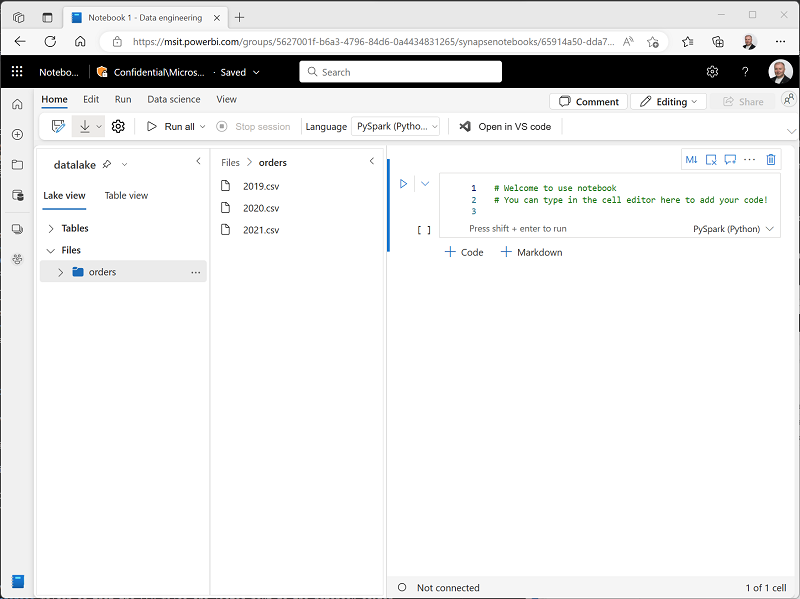
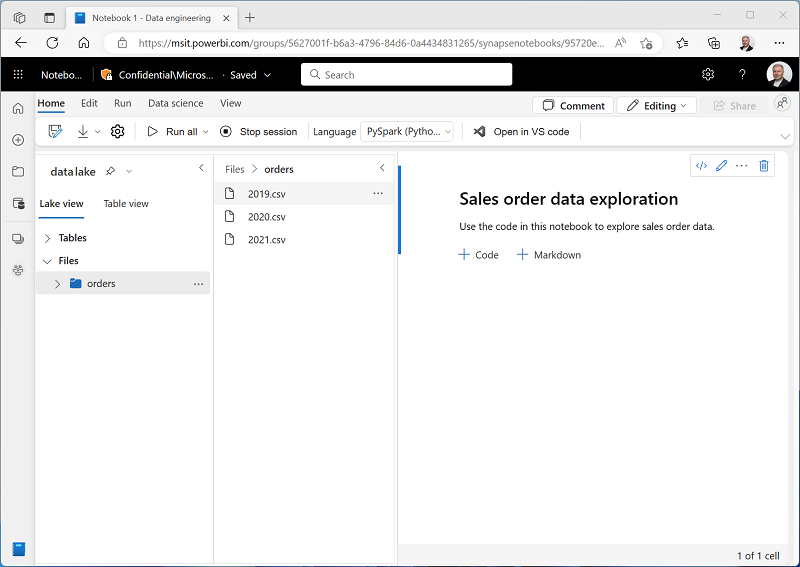
Added delta table

Changed region(s): [[0.0, 0.0, 1.0, 0.5097], [0.0, 0.9594, 1.0, 1.0], [0.3125, 0.4198, 0.3438, 0.4497]]

diff --git a/Instructions/Labs/01-analyze-spark.md b/Instructions/Labs/01-analyze-spark.md
@@ -33,33 +33,49 @@ Now that you have a workspace, it's time to switch to the *Data engineering* exp
 
     ![Screenshot of the experience menu in Power BI.](./Images/data-engineering.png)
 
-2. In the **Data engineering** home page, create a new **Lakehouse** with a name of your choice (for example, *datalake*).
+2. In the **Data engineering** home page, create a new **Lakehouse** with a name of your choice.
 
     After a minute or so, a new lakehouse with no **Tables** or **Files** will be created. You need to ingest some data into the data lakehouse for analysis. There are multiple ways to do this, but in this exercise you'll simply download and extract a folder of text files your local computer and then upload them to your lakehouse.
 
-3. Download and extract the data files for this exercise from [https://github.com/MicrosoftLearning/trident-dev/raw/master/Allfiles/Labs/01/orders.zip](https://github.com/MicrosoftLearning/trident-dev/raw/master/Allfiles/Labs/01/orders.zip).
-
-    > For now, you'll need to sign into GitHub first. When released, the repo will be public!
+3. Download and extract the data files for this exercise from [https://github.com/MicrosoftLearning/dp-data/raw/main/orders.zip](https://github.com/MicrosoftLearning/dp-data/raw/main/orders.zip).
 
 4. After extracting the zipped archive, verify that you have a folder named **orders** that contains CSV files named **2019.csv**, **2020.csv**, and **2021.csv**.
-5. Return to the web browser tab containing your lakehouse, and in the **...** menu for the **Files** collection, select **Upload** and **Upload folder**, and then upload the **orders** folder from your local computer to the lakehouse.
+5. Return to the web browser tab containing your lakehouse, and in the **...** menu for the **Files** node in the **Lake view** pane, select **Upload** and **Upload folder**, and then upload the **orders** folder from your local computer to the lakehouse.
 6. After the files have been uploaded, expand **Files** and select the **orders** folder; and verify that the CSV files have been uploaded, as shown here:
 
     ![Screenshot of uploaded files in a lakehouse.](./Images/uploaded-files.png)
 
-## Create a notebook and load data into a dataframe
+## Create a notebook
 
-To work with data in Apache Spark, you can create a *notebook* and use it to run code that loads the data into a *dataframe*. Spark supports multiple programming languages, but in this exercise you'll use the most commonly used one for data analysis - *PySpark*. PySpark is a variant of Python that is optimized to run on Spark.
+To work with data in Apache Spark, you can create a *notebook*. Notebooks provide an interactive environment in which you can write and run code (in multiple languages), and add notes to document it.
 
 1. On the **Home** page while viewing the contents of the **orders** folder in your datalake, in the **Open notebook** menu, select **New notebook**.
 
     After a few seconds, a new notebook containing a single *cell* will open. Notebooks are made up of one or more cells that can contain *code* or *markdown* (formatted text).
 
-2. With the notebook visible, expand the **Files** list and select the **orders** folder so that the CSV files are listed next to the notebook editor, like this:
+2. Select the first cell (which is currently a *code* cell), and then in the dynamic tool bar at its top-right, use the **M&#8595;** button to convert the cell to a *markdown* cell.
+
+    When the cell changes to a markdown cell, the text it contains is rendered.
+
+3. Use the **&#128393;** (Edit) button to switch the cell to editing mode, then modify the markdown as follows:
+
+    ```
+    # Sales order data exploration
+
+    Use the code in this notebook to explore sales order data.
+    ```
+
+4. Select anywhere in the notebook outside of the cell to stop editing it and see the rendered markdown.
+
+## Load data into a dataframe
+
+Now you're ready to run code that loads the data into a *dataframe*. Dataframes in Spark are similar to Pandas dataframes in Python, and provide a common structure for working with data in rows and columns.
+
+1. With the notebook visible, expand the **Files** list and select the **orders** folder so that the CSV files are listed next to the notebook editor, like this:
 
     ![Screenshot of a notebook with a Files pane.](./Images/notebook-files.png)
 
-3. In the **...** menu for **2019.csv**, select **Load data** > **Spark**. A new code cell containing the following code should be added to the notebook:
+2. In the **...** menu for **2019.csv**, select **Load data** > **Spark**. A new code cell containing the following code should be added to the notebook:
 
     ```python
     df = spark.read.format("csv").option("header","true").load("Files/orders/2019.csv")
@@ -67,11 +83,13 @@ To work with data in Apache Spark, you can create a *notebook* and use it to run
     display(df)
     ```
 
-4. Use the **&#9655; Run cell** button on the left of the cell to run it.
+    > **Tip**: You can hide the pane containing the files on the left by using its **<** icon. Doing so will help you focus on the notebook.
+
+3. Use the **&#9655; Run cell** button on the left of the cell to run it.
 
     > **Note**: Since this is the first time you've run any Spark code in this session, the Spark pool must be started. This means that the first run in the session can take a few minutes. Subsequent runs will be quicker.
 
-5. When the cell command has completed, review the output below the cell, which should look similar to this:
+4. When the cell command has completed, review the output below the cell, which should look similar to this:
 
     | Index | SO43701 | 11 | 2019-07-01 | Christy Zhu | christy12@adventure-works.com | Mountain-100 Silver, 44 | 16 | 3399.99 | 271.9992 |
     | -- | -- | -- | -- | -- | -- | -- | -- | -- | -- |
@@ -81,7 +99,7 @@ To work with data in Apache Spark, you can create a *notebook* and use it to run
 
     The output shows the rows and columns of data from the 2019.csv file. However, note that the column headers don't look right. The default code used to load the data into a dataframe assumes that the CSV file includes the column names in the first row, but in this case the CSV file just includes the data with no header information.
 
-6. Modify the code to set the **header** option to **false** as follows:
+5. Modify the code to set the **header** option to **false** as follows:
 
     ```python
     df = spark.read.format("csv").option("header","false").load("Files/orders/2019.csv")
@@ -89,7 +107,7 @@ To work with data in Apache Spark, you can create a *notebook* and use it to run
     display(df)
     ```
 
-7. Re-run the cell and review the output, which should look similar to this:
+6. Re-run the cell and review the output, which should look similar to this:
 
    | Index | _c0 | _c1 | _c2 | _c3 | _c4 | _c5 | _c6 | _c7 | _c8 |
     | -- | -- | -- | -- | -- | -- | -- | -- | -- | -- |
@@ -100,7 +118,7 @@ To work with data in Apache Spark, you can create a *notebook* and use it to run
 
     Now the dataframe correctly includes first row as data values, but the column names are auto-generated and not very helpful. To make sense of the data, you need to explicitly define the correct schema for the data values in the file.
 
-8. Modify the code as follows to define a schema and apply it when loading the data:
+7. Modify the code as follows to define a schema and apply it when loading the data:
 
     ```python
     from pyspark.sql.types import *
@@ -122,7 +140,7 @@ To work with data in Apache Spark, you can create a *notebook* and use it to run
     display(df)
     ```
 
-9. Run the modified cell and review the output, which should look similar to this:
+8. Run the modified cell and review the output, which should look similar to this:
 
    | Index | SalesOrderNumber | SalesOrderLineNumber | OrderDate | CustomerName | Email | Item | Quantity | UnitPrice | Tax |
     | -- | -- | -- | -- | -- | -- | -- | -- | -- | -- |
@@ -133,7 +151,7 @@ To work with data in Apache Spark, you can create a *notebook* and use it to run
 
     Now the dataframe includes the correct column names and data types as defined by the schema (in addition to the **Index**, which is a built-in column in all dataframes based on the ordinal position of each row).
 
-10. The dataframe includes only the data from the **2019.csv** file. Modify the code as follows to read the sales order data from all of the files in the **orders** folder:
+9. The dataframe includes only the data from the **2019.csv** file. Modify the code so that the file path uses a \* wildcard to read the sales order data from all of the files in the **orders** folder:
 
     ```python
     from pyspark.sql.types import *
@@ -155,13 +173,13 @@ To work with data in Apache Spark, you can create a *notebook* and use it to run
     display(df)
     ```
 
-11. Run the modified code cell and review the output, which should now include sales for 2019, 2020, and 2021.
+10. Run the modified code cell and review the output, which should now include sales for 2019, 2020, and 2021.
 
     **Note**: Only a subset of the rows is displayed, so you may not be able to see examples from all years.
 
-## Analyze data in a dataframe
+## Explore data in a dataframe
 
-The **dataframe** object in Spark is similar to a Pandas dataframe in Python, and includes a wide range of functions that you can use to manipulate, filter, group, and otherwise analyze the data it contains.
+The dataframe object includes a wide range of functions that you can use to filter, group, and otherwise manipulate the data it contains.
 
 ### Filter a dataframe
 
@@ -210,27 +228,48 @@ The **dataframe** object in Spark is similar to a Pandas dataframe in Python, an
 
 4. Run the code cell you added, and note that the results show the number of sales orders per year. Note that the **select** method includes a SQL **year** function to extract the year component of the *OrderDate* field, and then an **alias** method is used to assign a columm name to the extracted year value. The data is then grouped by the derived *Year* column and the count of rows in each group is calculated before finally the **orderBy** method is used to sort the resulting dataframe.
 
-## Query data using Spark SQL
+## Work with tables and SQL
 
-As you've seen, the native methods of the dataframe object enable you to query and analyze data quite effectively. However, many data analysts are more comfortable working with SQL syntax. Spark SQL is a SQL language API in Spark that you can use to run SQL statements, or even persist data in relational tables.
+As you've seen, the native methods of the dataframe object enable you to query and analyze data from a file quite effectively. However, many data analysts are more comfortable working with tables that they can query using SQL syntax. Spark provides a *metastore* in which you can define relational tables. The Spark SQL library that provides the dataframe object also supports the use of SQL statements to query tables in the metastore. By using these capabilities of Spark, you can combine the flexibility of a data lake with the structured data schema and SQL-based queries of a relational data warehouse - hence the term "data lakehouse".
 
-### Use Spark SQL in PySpark code
+### Create a table
 
-The default language in Azure Synapse Studio notebooks is PySpark, which is a Spark-based Python runtime. Within this runtime, you can use the **spark.sql** library to embed Spark SQL syntax within your Python code, and work with SQL constructs such as tables and views.
+Tables in a Spark metastore are relational abstractions over files in the data lake. tables can be *managed* (in which case the files are managed by the metastore) or *external* (in which case the table references a file location in the data lake that you manage independently of the metastore).
 
-1. Add a new code cell to the notebook, and enter the following code in it:
+1. Add a new code cell to the notebook, and enter the following code, which saves the dataframe of sales order data as a table named **salesorders**:
 
     ```Python
-    df.createOrReplaceTempView("salesorders")
+    # Create a new table
+    df.write.format("delta").saveAsTable("salesorders")
 
-    spark_df = spark.sql("SELECT * FROM salesorders")
-    display(spark_df)
+    # Get the table description
+    spark.sql("DESCRIBE EXTENDED salesorders").show(truncate=False)
     ```
 
-2. Run the cell and review the results. Observe that:
-    - The code persists the data in the **df** dataframe as a temporary view named **salesorders**. Spark SQL supports the use of temporary views or persisted tables as sources for SQL queries.
-    - The **spark.sql** method is then used to run a SQL query against the **salesorders** view.
-    - The results of the query are stored in a dataframe.
+    > **Note**: It's worth noting a couple of things about this example. Firstly, no explicit path is provided, so the files for the table will be managed by the metastore. Secondly, the table is saved in **delta** format. You can create tables based on multiple file formats (including CSV, Parquet, Avro, and others) but *delta lake* is a Spark technology that adds relational database capabilities to tables; including support for transactions, row versioning, and other useful features. Creating tables in delta format is preferred for most data lakehouse implementations.
+
+2. Run the code cell and review the output, which describes the definition of the new table.
+
+3. In the **Lake view** pane, in the **...** menu for the **Tables** node, select **Refresh**. Then expand the **Tables** node and select the **salesorders** folder to view the files that have been created for the table data.
+
+    ![Screenshot of files for a salesorder table.](./Images/delta-files.png)
+
+    Note that the data is stored in multiple Parquet files named **part-000*xxxx*.parquet**, and that a folder named **_delta_log** has been created to store details of transactions that occur in the table.
+
+4. Select the **Table view** tab, and verify that the **salesorders** table is listed in the metastore.
+
+    ![Screenshot of the salesorder table in Table view.](./Images/table-view.png)
+
+5. In the **...** menu for the **salesorders** table, select **Load data** > **Spark**.
+
+    A new code cell containing the following code is added to the notebook:
+
+    ```Python
+    df = spark.sql("SELECT * FROM data_lake.salesorders LIMIT 1000")
+    display(df)
+    ```
+
+6. Run the new code, which uses the Spark SQL library to embed a SQL query against the **salesorder** table in Python code and load the results of the query into a dataframe.
 
 ### Run SQL code in a cell
 
@@ -249,7 +288,7 @@ While it's useful to be able to embed SQL statements into a cell containing PySp
 
 2. Run the cell and review the results. Observe that:
     - The `%%sql` line at the beginning of the cell (called a *magic*) indicates that the Spark SQL language runtime should be used to run the code in this cell instead of PySpark.
-    - The SQL code references the **salesorder** view that you created previously using PySpark.
+    - The SQL code references the **salesorders* table that you created previously.
     - The output from the SQL query is automatically displayed as the result under the cell.
 
 > **Note**: For more information about Spark SQL and dataframes, see the [Spark SQL documentation](https://spark.apache.org/docs/2.2.0/sql-programming-guide.html).
